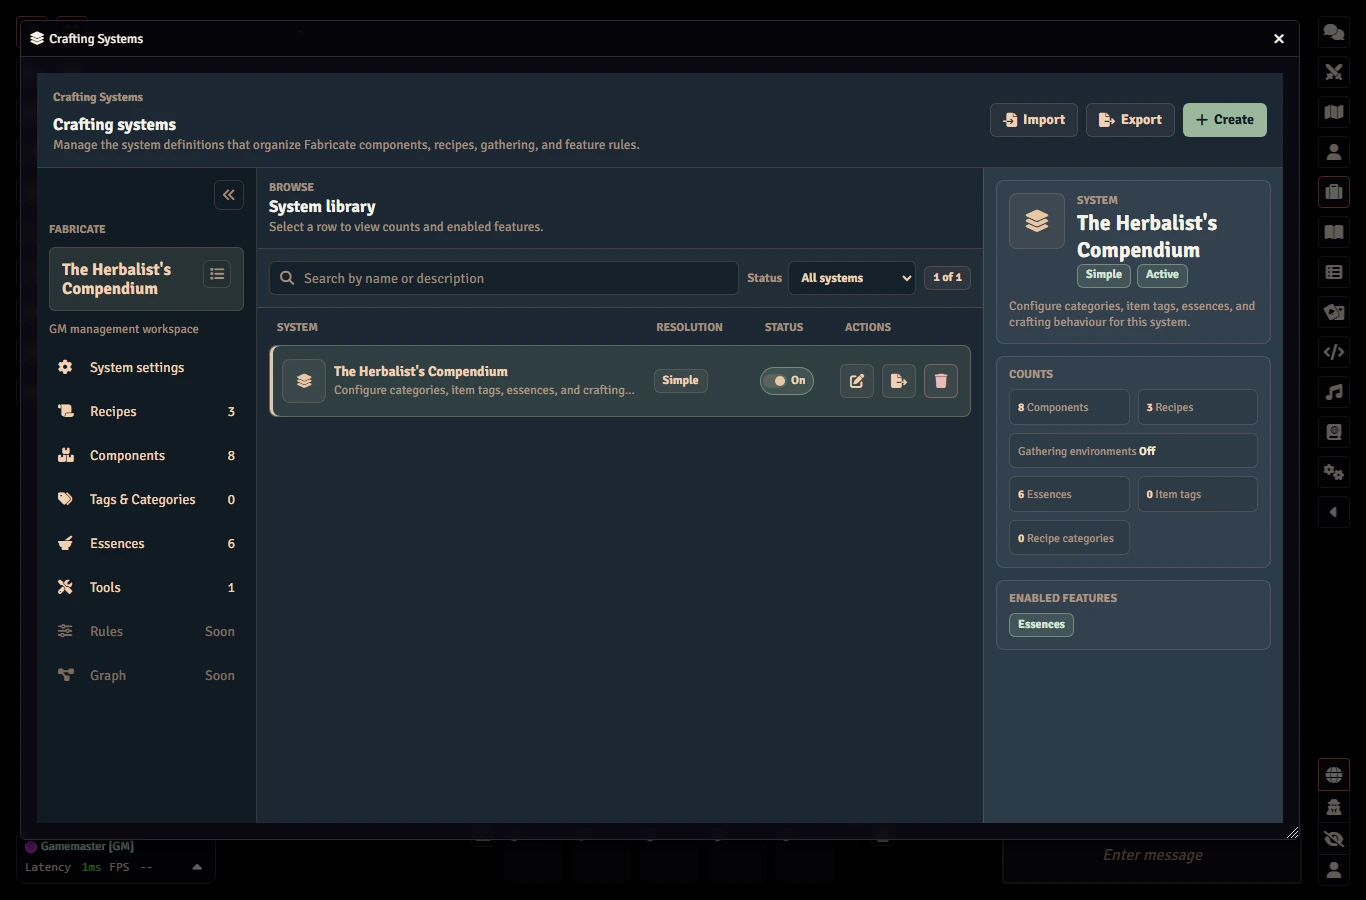
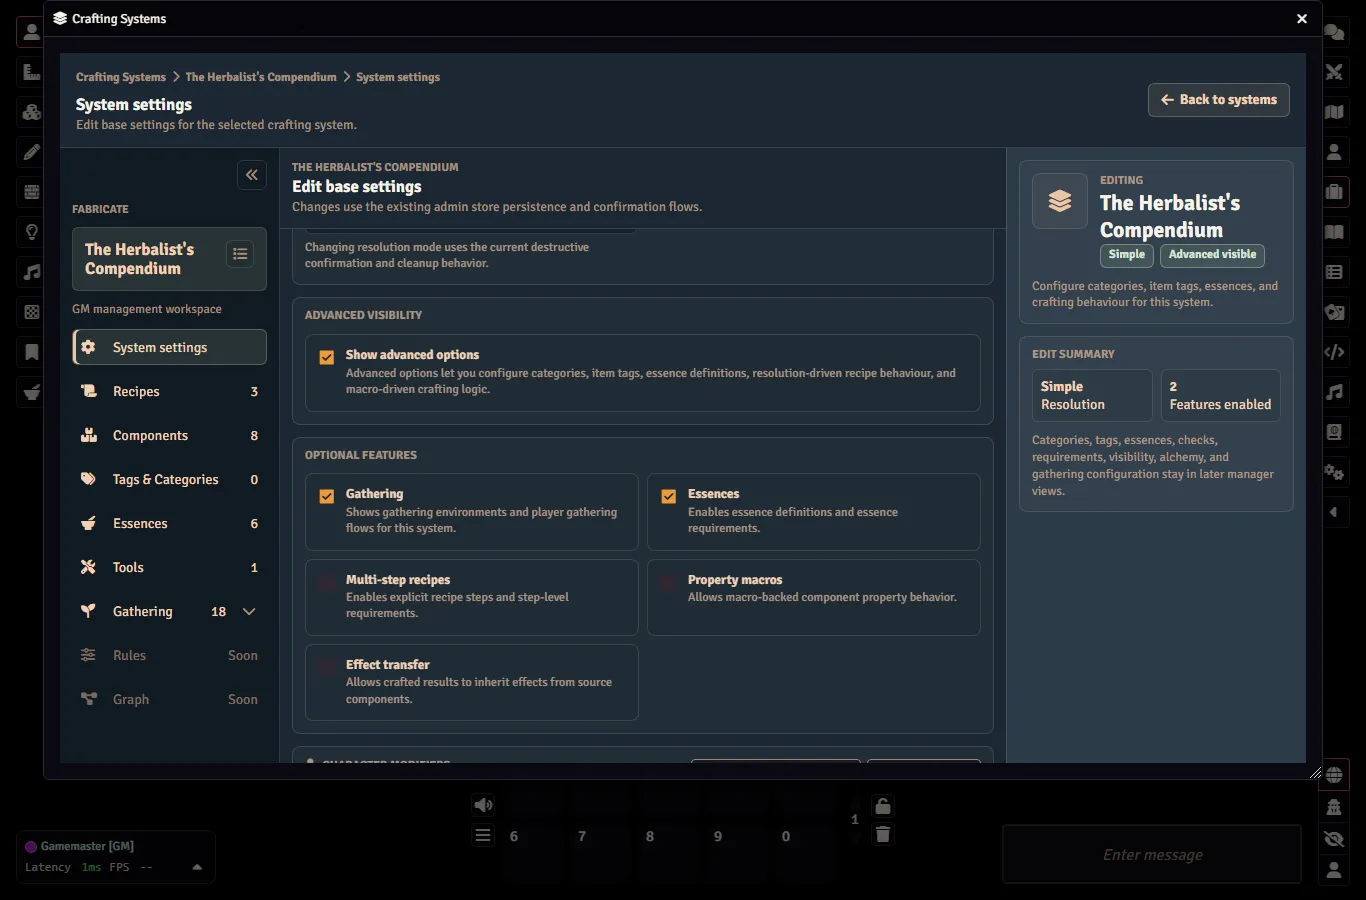
docs(#363): fix enable-gathering screenshot and guard against orphaned docs frames
The fabricate-enable-gathering.webp used in quickstart Step 4 showed the
System library list with the system inspector ("Gathering environments
Off") rather than the settings checkbox that enables gathering. Regenerate
it from the manager-system-edit-normal frame so it shows System settings →
Optional Features with the Gathering checkbox — the UI Step 4 describes.
(This is the system-edit frame that previously, mislabelled, backed Step 2;
Step 2 now uses manager-systems-empty.)

Drop the redundant fabricate-create-component-dragdrop.webp (the adjacent
fabricate-created-component.webp already conveys the components step) and
its quickstart reference.

Add tests/docs-screenshots.test.js: fail on any committed
docs/img/screenshots/*.webp that no authored docs page references (orphan),
and on any docs reference with no committed file (dangling). The smoke
harness only writes frames to the transient test-results/ directory, so a
screenshot reaching docs/ is always deliberate curation — this keeps a
deliberately-removed frame from quietly creeping back in from a later full
smoke run. Repoint the docs source list in agents/smoke-harness.md and
document the rule.

diff --git a/tests/docs-screenshots.test.js b/tests/docs-screenshots.test.js
@@ -1,0 +1,75 @@
+import assert from 'node:assert/strict';
+import { readdir, readFile } from 'node:fs/promises';
+import { dirname, extname, join, resolve } from 'node:path';
+import test from 'node:test';
+import { fileURLToPath } from 'node:url';
+
+const __dirname = dirname(fileURLToPath(import.meta.url));
+const root = resolve(__dirname, '..');
+const docsDir = join(root, 'docs');
+const screenshotsDir = join(docsDir, 'img', 'screenshots');
+
+// Directories under docs/ that are generated or vendored, never authored — they
+// must not count as references (otherwise a stale build artefact could keep a
+// deleted screenshot "alive").
+const IGNORED_DOCS_DIRS = new Set(['_site', 'vendor', '.jekyll-cache', 'node_modules']);
+const DOC_TEXT_EXTENSIONS = new Set(['.md', '.markdown', '.html']);
+
+/**
+ * Recursively collect authored doc source files (markdown + html), skipping the
+ * generated/vendored trees in {@link IGNORED_DOCS_DIRS}.
+ * @param {string} dir
+ * @returns {Promise<string[]>}
+ */
+async function collectDocFiles(dir) {
+  const entries = await readdir(dir, { withFileTypes: true });
+  const files = [];
+  for (const entry of entries) {
+    if (entry.isDirectory()) {
+      if (IGNORED_DOCS_DIRS.has(entry.name)) continue;
+      files.push(...await collectDocFiles(join(dir, entry.name)));
+    } else if (DOC_TEXT_EXTENSIONS.has(extname(entry.name).toLowerCase())) {
+      files.push(join(dir, entry.name));
+    }
+  }
+  return files;
+}
+
+const screenshotFiles = (await readdir(screenshotsDir))
+  .filter(file => extname(file).toLowerCase() === '.webp')
+  .sort((a, b) => a.localeCompare(b, 'en'));
+
+const docFiles = await collectDocFiles(docsDir);
+const referenced = new Set();
+for (const file of docFiles) {
+  const source = await readFile(file, 'utf8');
+  for (const match of source.matchAll(/screenshots\/([a-zA-Z0-9_-]+\.webp)/g)) {
+    referenced.add(match[1]);
+  }
+}
+
+// Guard against deleted documentation screenshots silently creeping back in.
+// Every committed screenshot must earn its place by being referenced from an
+// authored docs page; an orphaned .webp (e.g. one re-added from a smoke run
+// after its docs reference was removed) fails this test. The smoke harness only
+// writes frames to the transient test-results/ directory, so a screenshot
+// reaching docs/img/screenshots/ is always a deliberate curation — this keeps
+// that set honest. See docs/agents/smoke-harness.md for the curation workflow.
+test('every committed docs screenshot is referenced by an authored docs page', () => {
+  const orphans = screenshotFiles.filter(file => !referenced.has(file));
+  assert.deepEqual(
+    orphans,
+    [],
+    `Unreferenced docs screenshot(s) in docs/img/screenshots/ — reference them from a docs page or delete the file(s): ${orphans.join(', ')}`
+  );
+});
+
+test('every docs screenshot reference resolves to a committed file', () => {
+  const present = new Set(screenshotFiles);
+  const dangling = [...referenced].filter(file => !present.has(file)).sort((a, b) => a.localeCompare(b, 'en'));
+  assert.deepEqual(
+    dangling,
+    [],
+    `Docs reference screenshot file(s) missing from docs/img/screenshots/: ${dangling.join(', ')}`
+  );
+});

diff --git a/docs/agents/smoke-harness.md b/docs/agents/smoke-harness.md
@@ -49,13 +49,15 @@ Do not link docs directly to `test-results/`; that directory is transient and is
 
 The current gathering docs source set includes these full-profile labels:
 
-- GM setup: `manager-systems-empty` (quickstart Step 2 "Create a Crafting System" — the empty System Library onboarding card with the Create system button, captured before the smoke system exists), `manager-components-normal`, `manager-environments-browse-normal`, `manager-environment-edit-placeholder`
+- GM setup: `manager-systems-empty` (quickstart Step 2 "Create a Crafting System" — the empty System Library onboarding card with the Create system button, captured before the smoke system exists), `manager-system-edit-normal` (quickstart Step 4 "enable the gathering feature" — System settings → Optional Features with the Gathering checkbox), `manager-components-normal`, `manager-environments-browse-normal`, `manager-environment-edit-placeholder`
 - GM gathering libraries: `manager-gathering-task-editor-normal`, `manager-gathering-event-editor-normal`
 - Environment composition: `manager-environment-edit-tasks`, `manager-environment-edit-events`, `manager-gathering-settings`
 - Player journey: `player-gathering-environments`, `player-gathering-events`, `player-gathering-task-ready`, `player-gathering-after-success`, `player-gathering-tool-blocked`, `player-gathering-timed-ready`, `player-gathering-timed-active`, `player-gathering-blind`, `player-gathering-realm-locked`, `player-gathering-stacked`
 
 The reduced `rc`/`ci` smoke profiles intentionally do not regenerate this whole docs source set.
 They keep the lightweight screenshot allow-list for CI and release-candidate confidence, while local `full` runs provide documentation evidence.
+
+Only copy a frame into `docs/img/screenshots/` when an authored docs page references it. `tests/docs-screenshots.test.js` fails on any committed screenshot that is not referenced from a docs page, so a frame that was deliberately dropped from the docs cannot quietly creep back in from a later smoke run. If you remove a screenshot from a page, delete the `.webp` too (and vice versa).
 
 ## Interpreting `passed: false`
 

diff --git a/docs/quickstart.md b/docs/quickstart.md
@@ -73,7 +73,6 @@ This decouples recipes from specific world items, and removes the need for impre
 2. Drag items from the Items sidebar or a compendium into the components drop zone
 3. Your item is now registered as a Fabricate component
 
-![Fabricate Component Dragdrop](img/screenshots/fabricate-create-component-dragdrop.webp)
 ![Fabricate created component](img/screenshots/fabricate-created-component.webp)
 
 ## Step 4: Create a Gathering Environment